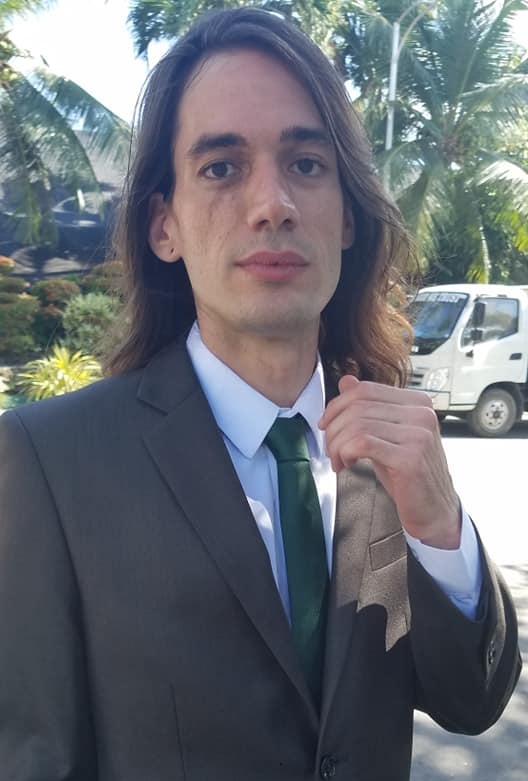
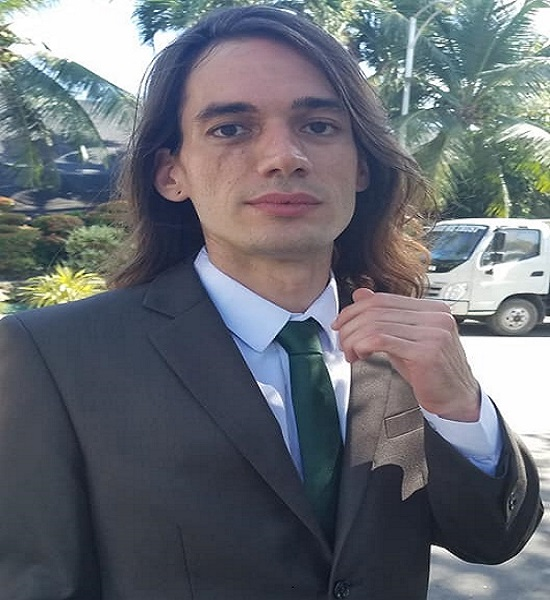
resized all images, updated some html

diff --git a/index.html b/index.html
@@ -32,7 +32,7 @@
                     <div class = "title-post">
                         <!-- <h1>TheLookBook</h1> -->
                         <p>An Artistic Collection Application.</p>
-                        <p>Created by our team, David Lam, Justin Davis, Michael Ney, Zach Overhulser and Patrick Steveson. Managed by Kyle Kauzlarich.</p>
+                        <p>Created by our team, David Lam, Justin Davis, Michael Ney, Zach Overhulser and Patrick Steveson. Team led by Kyle Kauzlarich.</p>
                         <!-- <div class = "btn">Login</div> -->
                         <!-- I figure we will use an event listener with an alert on click for the login maybe? Not totally sure if we have to do that or just link it to something -->
                         <!-- might not even need the button, PM said button or anchor tag link works -->
@@ -51,7 +51,7 @@
                         <div class = "food">
                             <h2>Foam Bear-Art Beverage</h2>
                             <!-- <p>Insert Photo Description Here!(if we want to include descriptions).</p> -->
-                            <img src = "images/food/art-bear-beverage-1436172.jpg" class = "images" alt = "Foam Bear Drink"></a>
+                            <img src = "images/food/Art-Bear.jpg" class = "images" alt = "Foam Bear Drink"></a>
                             <p class = "author">By Pexel</p>
                         </div>
                     </div>
@@ -60,7 +60,7 @@
                         <div class = "food">
                             <h2>Strawberries and Cream Parfait</h2>
                             <!-- <p>Insert Photo Description Here!(if we want to include descriptions).</p> -->
-                            <img src = "images/food/berries-bowl-cream-1132558.jpg" class = "images" alt = "Strawberries and Cream Parfait"></a>
+                            <img src = "images/food/Strawberries-and-Cream.jpg" class = "images" alt = "Strawberries and Cream Parfait"></a>
                             <p class = "author">By Pexel</p>
                         </div>
                     </div>
@@ -69,7 +69,7 @@
                         <div class = "food">
                             <h2>Citrus Close-Up</h2>
                             <!-- <p>Insert Photo Description Here!(if we want to include descriptions).</p> -->
-                            <img src = "images/food/citrus-close-up-cut-1002778.jpg" class = "images" alt = "Close up of sliced oranges"></a>
+                            <img src = "images/food/Citrus-Close-Up.jpg" class = "images" alt = "Close up of sliced oranges"></a>
                             <p class = "author">By Pexel</p>
                         </div>
                     </div>
@@ -80,7 +80,7 @@
                             <div class = "landscape">
                                 <h2>Arch-Bridge</h2>
                                 <!-- <p>Insert Photo Description Here!(if we want to include descriptions).</p> -->
-                                <img src = "images/landscape/arch-bridge-clouds-814499.jpg" class = "images" alt = "Arch Bridge Landscape"></a>
+                                <img src = "images/landscape/Arch-Bridge.jpg" class = "images" alt = "Arch Bridge Landscape"></a>
                                 <p class = "author">By Pexel</p>
                             </div>
                         </div>
@@ -89,7 +89,7 @@
                                 <div class = "landscape">
                                     <h2>Waterfall</h2>
                                     <!-- <p>Insert Photo Description Here!(if we want to include descriptions).</p> -->
-                                    <img src = "images/landscape/cascade-clouds-cool-wallpaper-210186.jpg" class = "images" alt = "Waterfall Landscape"></a>
+                                    <img src = "images/landscape/Waterfall-Clouds.jpg" class = "images" alt = "Waterfall Landscape"></a>
                                     <p class = "author">By Pexel</p>
                                 </div>
                             </div>
@@ -98,7 +98,7 @@
                             <div class = "landscape">
                                 <h2>Purple Sunset</h2>
                                 <!-- <p>Insert Photo Description Here!(if we want to include descriptions).</p> -->
-                                <img src = "images/landscape/dawn-dusk-hd-wallpaper-36717.jpg" class = "images" alt = "Incredible Sunset Landscape"></a>
+                                <img src = "images/landscape/Dawn-Sunrise.jpg" class = "images" alt = "Incredible Sunset Landscape"></a>
                                 <p class = "author">By Pexel</p>
                             </div>
                         </div> 
@@ -109,7 +109,7 @@
                             <div class = "portrait">
                                 <h2>Black-and-White</h2>
                                 <!-- <p>Insert Photo Description Here!(if we want to include descriptions).</p> -->
-                                <img src = "images/portrait/actor-black-and-white-famous-53487.jpg" class = "images" alt = "Black and White Portrait"></a>
+                                <img src = "images/portrait/Black-White-portrait.jpg" class = "images" alt = "Black and White Portrait"></a>
                                 <p class = "author">By Pexel</p>
                             </div>
                         </div>
@@ -118,7 +118,7 @@
                             <div class = "portrait">
                                 <h2>Bearded-Male Portrait</h2>
                                 <!-- <p>Insert Photo Description Here!(if we want to include descriptions).</p> -->
-                                <img src = "images/portrait/beard-male-man-35065.jpg" class = "images" alt = "Bearded-Male Portrait"></a>
+                                <img src = "images/portrait/Bearded-Male-portrait.jpg" class = "images" alt = "Bearded-Male Portrait"></a>
                                 <p class = "author">By Pexel</p>
                             </div>
                         </div>    
@@ -127,7 +127,7 @@
                             <div class = "portrait">
                                 <h2>Female Close-Up</h2>
                                 <!-- <p>Insert Photo Description Here!(if we want to include descriptions).</p> -->
-                                <img src = "images/portrait/adult-attractive-beautiful-906052.jpg" class = "images" alt = "Close-up Female Portrait"></a>
+                                <img src = "images/portrait/Female-portrait.jpg" class = "images" alt = "Close-up Female Portrait"></a>
                                 <p class = "author">By Pexel</p>
                             </div>
                         </div>
@@ -138,7 +138,7 @@
                             <div class = "wildlife">
                                 <h2>Peaceful Bear</h2>
                                 <!-- <p>Insert Photo Description Here!(if we want to include descriptions).</p> -->
-                                <img src = "images/wildlife/animal-animal-photography-bear-213988.jpg" class = "images" alt = "Bear resting on a log"></a>
+                                <img src = "images/wildlife/Bear-img.jpg" class = "images" alt = "Bear resting on a log"></a>
                                 <p class = "author">By Pexel</p>
                             </div>
                         </div>
@@ -147,7 +147,7 @@
                             <div class = "wildlife">
                                 <h2>Sea Turtle Underwater</h2>
                                 <!-- <p>Insert Photo Description Here!(if we want to include descriptions).</p> -->
-                                <img src = "images/wildlife/animal-aquatic-corals-847393.jpg" class = "images" alt = "Underwater shot of a sea-turtle"></a>
+                                <img src = "images/wildlife/Turtle-img.jpg" class = "images" alt = "Underwater shot of a sea-turtle"></a>
                                 <p class = "author">By Pexel</p>
                             </div>
                         </div>
@@ -156,7 +156,7 @@
                             <div class = "wildlife">
                                 <h2>Elephant in Daylight</h2>
                                 <!-- <p>Insert Photo Description Here!(if we want to include descriptions).</p> -->
-                                <img src = "images/wildlife/animal-photography-daylight-elephant-247431.jpg" class = "images" alt = "An incredible shot of an elephant"></a>
+                                <img src = "images/wildlife/Elephant-img.jpg" class = "images" alt = "An incredible shot of an elephant"></a>
                                 <p class = "author">By Pexel</p>
                             </div>
                         </div>
@@ -169,7 +169,7 @@
                 <p>Thank you for using <strong>TheLookBook</strong> a creative art gallery.</p>
                 <p>We hope you enjoy using our application to showcase your works of art.</p>
                 <ul class = "social-media">
-                    <li><a href = "#" class = "icon envelope"><span class = "label">Email</span></a></li>
+                    <!-- <li><a href = "#" class = "icon envelope"><span class = "label">Email</span></a></li> **Dont have a project email established yet, commenting out incase we make one.-->
                     <li><a href = "https://github.com/build2artportfolio/The-Lookbook" class = "icon github"><span class = "label">Github</span></a></li> 
                 </ul>
                 <small class = "copyright">

diff --git a/about.html b/about.html
@@ -32,21 +32,21 @@
                     <div class = "about-title-post">
                         <h1>TheLookBook</h1>
                         <p>An artistic collection application.</p>
-                        <p>Created by our team, David Lam, Justin Davis, Michael Ney, Zach Overhulser and Patrick Steveson. Managed by Kyle Kauzlarich.</p>
+                        <p>Created by our team, David Lam, Justin Davis, Michael Ney, Zach Overhulser and Patrick Steveson. Team led by Kyle Kauzlarich.</p>
                         <p>Get to know us!</p>
                     </div>
                 </div>
 
                 <div class = "about-container">
                     <div class = "creator-container"> 
-                        <!-- Individual card/posts about each one of us. Include a photo probably just take the slack profile pics. -->
+                        <!-- Individual card/posts about each one of us. Include a photo.-->
                         <div class = "posts">
                             <div class = "creators">
                                 <h2>David Lam</h2>
                                 <h3>Front End Developer</h3>
                                 <p>"I do photography as a hobby. Building a website for other photographers to upload their works is like my dream job."</p>
-                                <li><a href = "#" class = "icon github"><span class = "label">Github</span></a></li>
-                                <img src = "images/creators/David.JPG" class = "images" alt = "Picture of David"></a>
+                                <li><a href = "https://github.com/DavidLam89" class = "icon github"><span class = "label">Github</span></a></li>
+                                <img src = "images/creators/David.jpg" class = "images" alt = "Picture of David"></a>
                             </div>
                         </div>
 
@@ -55,7 +55,7 @@
                                 <h2>Justin Davis</h2>
                                 <h3>Front End Developer</h3>
                                 <p>"I love machines but I love animals more. Design and development are two sides of the same coin I aim to flip."</p>
-                                <li><a href = "#" class = "icon github"><span class = "label">Github</span></a></li>
+                                <li><a href = "https://github.com/JustinDavisA" class = "icon github"><span class = "label">Github</span></a></li>
                                 <img src = "images/creators/Justin.jpg" class = "images" alt = "Picture of Justin"></a>
                             </div>
                         </div>
@@ -65,8 +65,8 @@
                                 <h2>Michael Ney</h2>
                                 <h3>Back End Developer</h3>
                                 <p>"Full Stack Test Driven Development is my favorite approach to creating unique, and quality web applications. Also, I have a cat."</p>
-                                <li><a href = "#" class = "icon github"><span class = "label">Github</span></a></li>
-                                <img src = "images/creators/michael.png" class = "images" alt = "Picture of Michael"></a>
+                                <li><a href = "https://github.com/MichaelNey" class = "icon github"><span class = "label">Github</span></a></li>
+                                <img src = "images/creators/Michael.png" class = "images" alt = "Picture of Michael"></a>
                             </div>
                         </div>
                     </div>
@@ -78,8 +78,8 @@
                                 <h3>UI Developer</h3>
                                 <p>Insert blurb about Zach.
                                 </p>
-                                <li><a href = "#" class = "icon github"><span class = "label">Github</span></a></li>
-                                <img src = "" class = "images" alt = "Picture of Zach"></a>
+                                <li><a href = "https://github.com/zoverlvx" class = "icon github"><span class = "label">Github</span></a></li>
+                                <img src = "images/creators/question-mark.jpg" class = "images" alt = "Picture of Zach"></a>
                             </div>
                         </div>
                         
@@ -88,7 +88,7 @@
                                 <h2>Patrick Steveson</h2>
                                 <h3>UI Developer</h3>
                                 <p>"I am a 27-year old born and raised in Northern Illnois. Once a financial services representative now turned programmer, with a passion for color and animation."</p>
-                                <li><a href = "#" class = "icon github"><span class = "label">Github</span></a></li>
+                                <li><a href = "https://github.com/Mrsteveson" class = "icon github"><span class = "label">Github</span></a></li>
                                 <img src = "./images/creators/Patrick.jpg" class = "images" alt = "Patrick and his Dog"></a>
                             </div>
                         </div>
@@ -97,8 +97,8 @@
                             <div class = "creators">
                                 <h2>Kyle Kauzlarich</h2>
                                 <h3>Team Leader</h3>
-                                <p>"The eye in the sky who made sure that we did not blow up everything as we worked, The Keeper of Answers, Solver of Problems, and Destroyer of Merge Conflicts."</p>
-                                <li><a href = "#" class = "icon github"><span class = "label">Github</span></a></li>
+                                <p>"The eye in the sky who made sure that we did not blow up everything, The Keeper of Answers, Solver of Problems, and Destroyer of Merge Conflicts."</p>
+                                <li><a href = "https://github.com/kyle-kauzlarich" class = "icon github"><span class = "label">Github</span></a></li>
                                 <img src = "images/creators/Kyle.png" class = "images" alt = "Picture of Kyle"></a>
                             </div>
                         </div>
@@ -107,11 +107,11 @@
             </section>
            
             <footer class = "bottom-content">
-                    <p>Thank you for using <strong>TheLookBook</strong> a creative art gallery.</p>
-                    <p>We hope you enjoy using our application to showcase your works of art.</p>
+                <p>Thank you for using <strong>TheLookBook</strong> a creative art gallery.</p>
+                <p>We hope you enjoy using our application to showcase your works of art.</p>
                 <ul class = "social-media">
-                    <li><a href = "#" class = "icon envelope"><span class = "label">Email</span></a></li>
-                    <li><a href = "#" class = "icon github"><span class = "label">Github</span></a></li>
+                    <!-- <li><a href = "#" class = "icon envelope"><span class = "label">Email</span></a></li>**Dont have a project email established yet, commenting out incase we make one -->
+                    <li><a href = "https://github.com/build2artportfolio/The-Lookbook" class = "icon github"><span class = "label">Github</span></a></li>
                 </ul>
                 <small class = "copyright">
                     &copy; TheLookBook. All Rights Reserved. 2019.

diff --git a/js/index.js b/js/index.js
@@ -19,75 +19,54 @@ navPro.addEventListener('click', function(){
 // DblClick Event Listener
 // Image Nullifier, removes images on dbl click. 
 // ****Might adjust to just get rid of "posts divs".****
-const imgNone = document.querySelectorAll('img');
+const postsNone = document.querySelectorAll('.posts');
 
-for(let i = 0; i < imgNone.length; i++){
-    imgNone[i].addEventListener('dblclick', function(){
-        imgNone[i].style.display = "none";
+for(let i = 0; i < postsNone.length; i++){
+    postsNone[i].addEventListener('dblclick', function(){
+        postsNone[i].style.display = "none";
     });
 };
 
 // Scroll Event Listener
 // creates a div in the form of a box, containing an ^, as you scroll.
 // Clicking on Div will bump you back to the top.
-let scrollY = 0; 
-scrollY = window.scrollY;
-    
-let div = document.createElement('div');
-document.body.append(div);
-div.id = "boxie";
-div.style.padding = "15px";
-div.style.color = "black";
-div.style.textAlign = "center";
-div.style.background = "rgb(239, 250, 253)"
-div.innerHTML = "Up";
-div.style.borderRadius = '10px';
-div.style.position = "fixed";
-div.style.right = "100px";
-div.style.bottom = " 100px";
-div.style.border = "1px solid black";
+var x = window.matchMedia("(min-width: 501px)")
 
-
-window.addEventListener('scroll', function(e){
+if(x.matches){
+    let scrollY = 0;
     scrollY = window.scrollY;
-    if(scrollY > 100){
-        document.getElementById('boxie').style.display = "block";
 
-    } else if (scrollY < 100) {
-        document.getElementById('boxie').style.display = "none";
-    }
-});
+    let div = document.createElement('div');
+    document.body.append(div);
+    div.id = "boxie";
+    div.style.padding = "10px";
+    div.style.color = "black";
+    div.style.textAlign = "center";
+    div.style.background = "rgb(239, 250, 253)"
+    div.innerHTML = "Up";
+    div.style.borderRadius = '10px';
+    div.style.position = "fixed";
+    div.style.right = "100px";
+    div.style.bottom = " 100px";
+    div.style.border = "1px solid black";
+    div.style.cursor = "pointer"
 
-div.addEventListener('click', function(){
-    document.body.scrollTop = 0;
-    document.documentElement.scrollTop = 0;
-});
+
+    window.addEventListener('scroll', function(e){
+        scrollY = window.scrollY;
+        if(scrollY > 100){
+            document.getElementById('boxie').style.display = "block";
+
+        } else if (scrollY < 100) {
+            document.getElementById('boxie').style.display = "none";
+        }
+    });
+
+    div.addEventListener('click', function(){
+        document.body.scrollTop = 0;
+        document.documentElement.scrollTop = 0;
+    });
+}
+
 
 // Other JavaScript Elements Here
-
-
-
-
-
-
-
-
-
-// Constructor function -> 1 option to hide the above scroll listener on mobile view.
-
-// class NewElement {
-//     constructor(element){
-
-//       this.element = element;
-  
-//       if(this.element.classList.contains('desktop')){
-//         this.element.addEventListener('click', () => this.function());
-//       } else {
-//       }
-//     }
-//     function() {
-//     }
-// }
- 
-//   let element = document.querySelectorAll('.element');
-//   element.forEach(ele => new NewElement(ele)); 

diff --git a/css/index.css b/css/index.css
@@ -282,7 +282,7 @@ footer strong {
   border-radius: 10px;
 }
 .posts .images {
-  max-width: 100%;
+  width: 100%;
   border-radius: 5px;
 }
 @media ( max-width: 500px) {

diff --git a/LESS/posts.less b/LESS/posts.less
@@ -69,7 +69,9 @@
   }
 
   .images {
-    max-width: 100%;
+    //max-width: 100%;
+    width: 100%;
+    // height:75%;
     border-radius: 5px;
   }
 }
